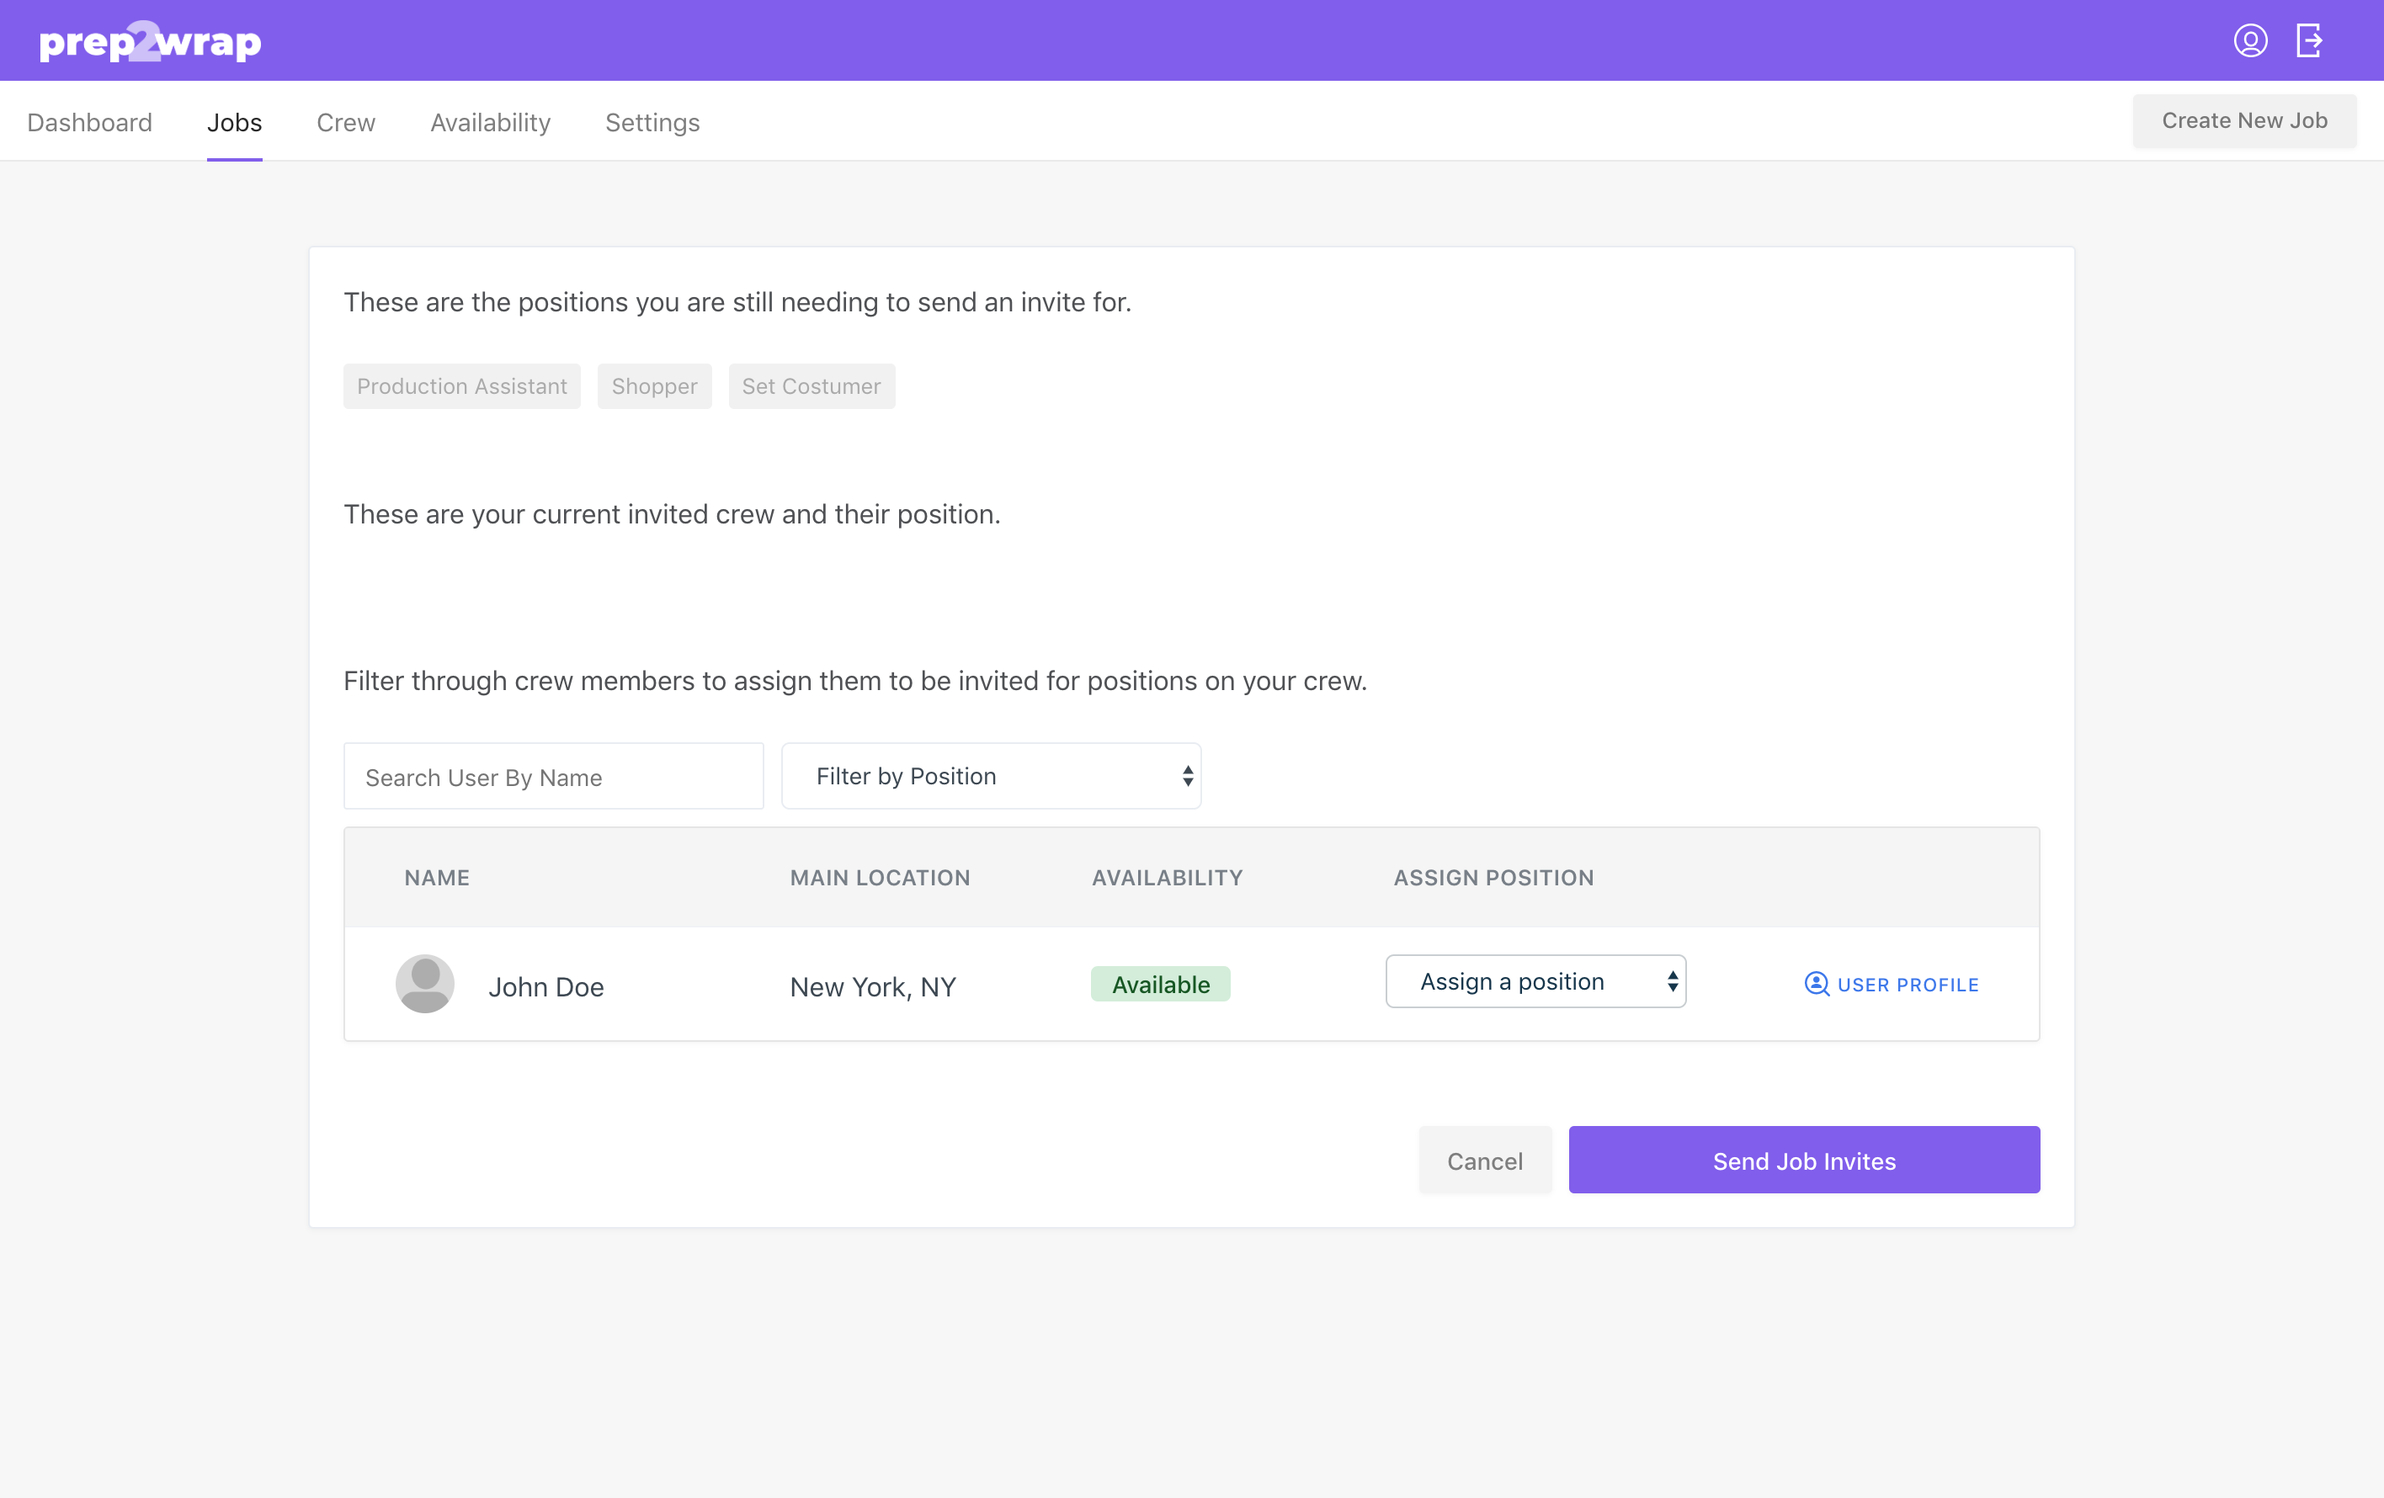
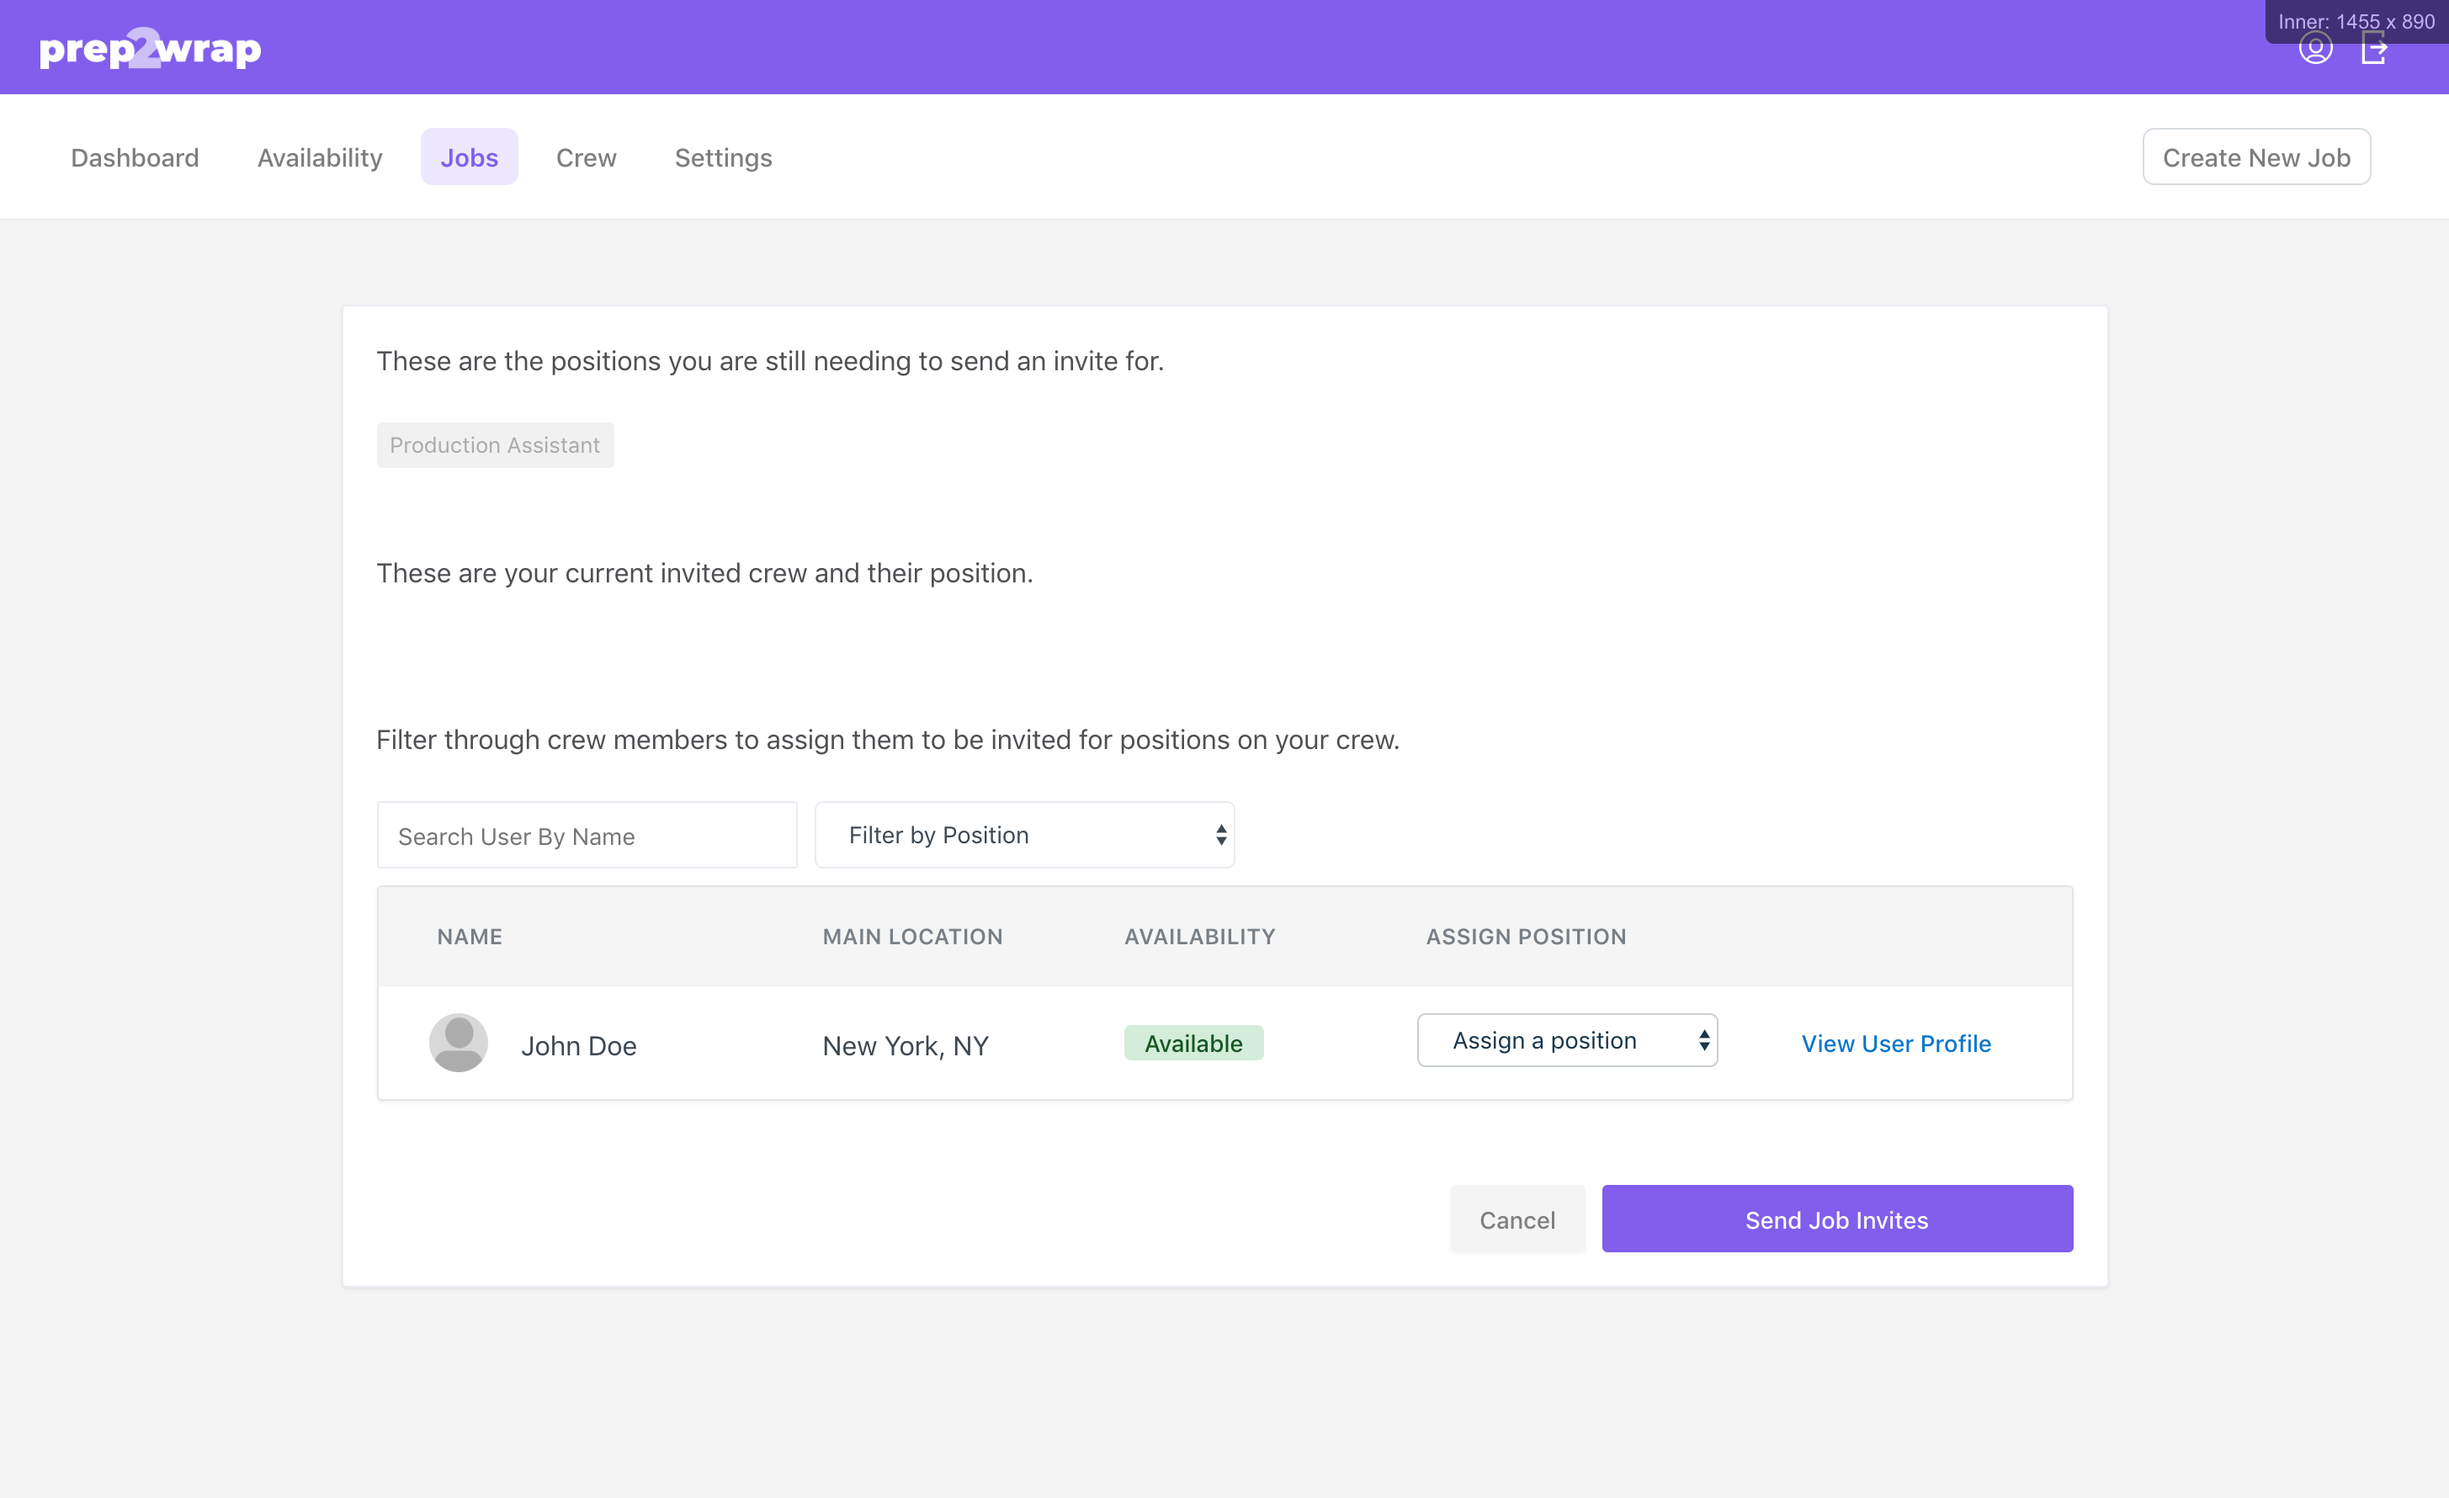
Added 404 page and updated the walkthrough screenshots with updated UI design

diff --git a/src/pages/NotFound.js b/src/pages/NotFound.js
@@ -1,5 +1,7 @@
 import React from 'react'
 import { Link } from 'react-router-dom'
+import EmptyState from '../components/General/EmptyState'
+import NoResultsIllustration from '../img/illustrations/no-results.svg'
 
 export const NotFound = () => (
   <div className="app-page">
@@ -10,13 +12,18 @@ export const NotFound = () => (
           <Link to="/availability" className="link">Availability</Link>
           <Link to="/jobs" className="link">Jobs</Link>
           <Link to="/crew" className="link">Crew</Link>
-          <Link to="/account-settings" className="active">Settings</Link>
+          <Link to="/account-settings">Settings</Link>
         </div>
       </div>
     </div>
     <div className="app-page-body">
       <div className="app-page-section">
-        <p>Looks like that page doesn't exist</p>
+        <EmptyState
+          imgSrc={NoResultsIllustration}
+          imgAlt="Page Not Found Illustration"
+          title="That page does not exist."
+          text="The page you are looking for does not exist, use the navbar to navigate to a known section of the application."
+        />
       </div>
     </div>
   </div>
